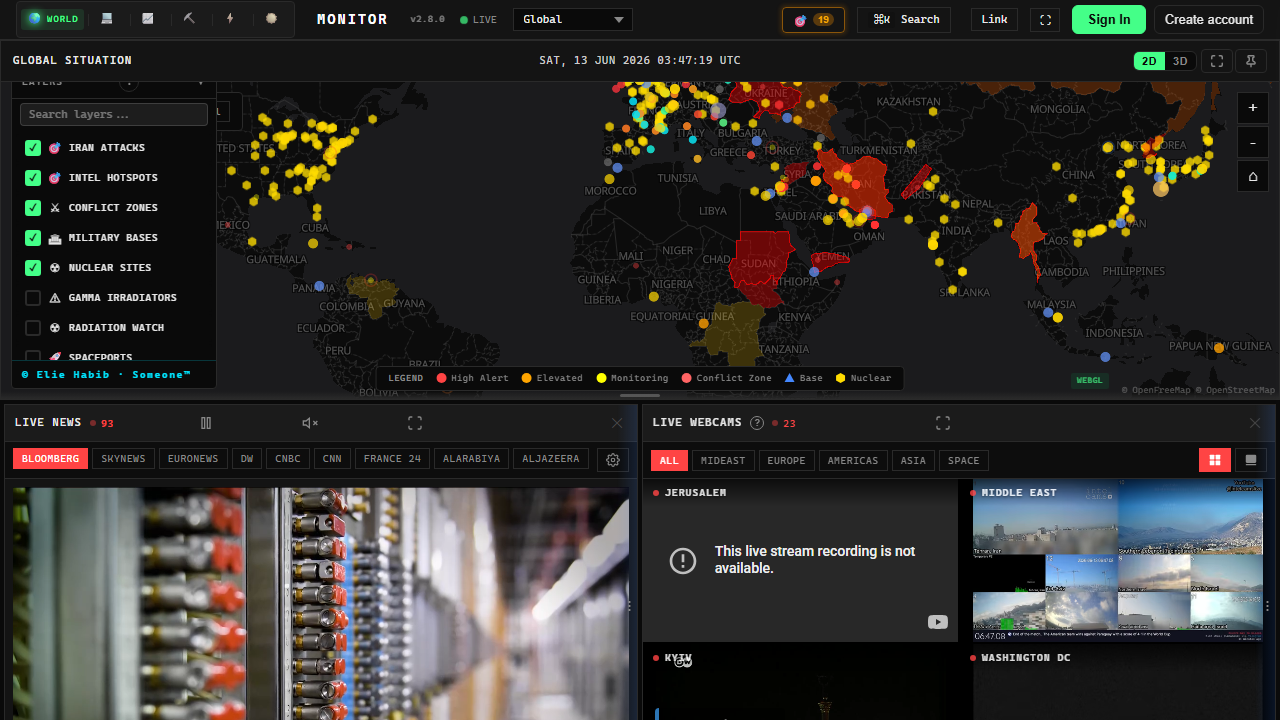
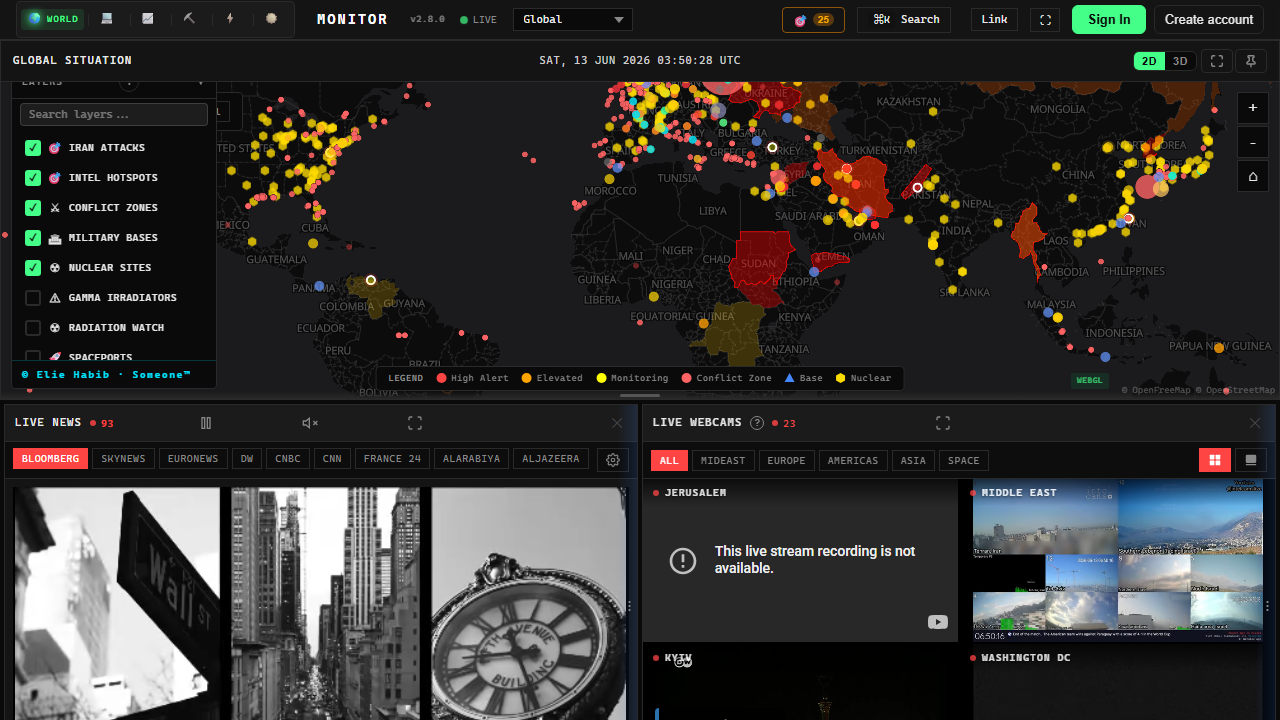
fix: increase all seed script TTLs to 48h for daily cron compatibility
Multiple seed scripts had TTLs designed for hourly cron (3h-15h) but
the workflows now run daily (24h). Data expired hours before the next
run, causing empty panels. Fixed 20+ scripts to use 48h TTL.

Affected: forecasts, market-implications, sanctions, social-velocity,
stablecoins, gulf-quotes, cyber-threats, earthquakes, natural-events,
regulatory-actions, usa-spending, wsb-tickers, climate, crypto, etc.

diff --git a/test-panels.spec.ts b/test-panels.spec.ts
@@ -1,51 +1,39 @@
 import { test, expect } from '@playwright/test';
 
-test('All major panels load without errors', async ({ page }) => {
-  const consoleErrors: string[] = [];
-  page.on('console', msg => {
-    if (msg.type() === 'error') consoleErrors.push(msg.text().slice(0, 150));
-  });
-
+test('Panel health check', async ({ page }) => {
   await page.goto('https://wm-worldmonitor-847.netlify.app', { waitUntil: 'domcontentloaded', timeout: 30000 });
-  await page.waitForTimeout(20000); // wait for panels to load
+  await page.waitForTimeout(20000);
 
-  // Get all panel states
+  // Get panel containers by data-panel-id
   const panelStates = await page.evaluate(() => {
-    const panels = document.querySelectorAll('[class*="panel"]');
     const results: Record<string, string> = {};
-    for (const p of panels) {
-      const id = (p as HTMLElement).dataset?.panelId || p.className.match(/panel-(\w[\w-]*)/)?.[1] || '';
-      if (!id) continue;
-      const text = (p.textContent || '').trim().slice(0, 100);
-      const hasError = p.querySelector('.panel-error, .error') !== null;
-      const hasLoading = p.querySelector('.panel-loading, .loading') !== null;
-      const isEmpty = text.includes('No data') || text.includes('unavailable') || text.includes('No items');
-      const state = hasError ? 'ERROR' : hasLoading ? 'LOADING' : isEmpty ? 'EMPTY' : 'OK';
-      results[id] = state;
-    }
+    // Panel containers have data-panel-id or are .panel elements with IDs
+    document.querySelectorAll('[data-panel]').forEach(el => {
+      const id = el.getAttribute('data-panel')!;
+      const text = (el.textContent || '').trim();
+      const hasError = el.querySelector('.panel-error-state, .panel-loading.panel-error-radar') !== null;
+      const hasLoading = el.querySelector('.panel-loading:not(.panel-loading-radar)') !== null;
+      const isEmpty = /no data|unavailable|No items|all sources disabled/i.test(text) && text.length < 200;
+      const isLocked = el.querySelector('.panel-locked-state') !== null;
+      results[id] = isLocked ? 'LOCKED' : hasError ? 'ERROR' : hasLoading ? 'LOADING' : isEmpty ? 'EMPTY' : 'OK';
+    });
     return results;
   });
 
-  console.log('Panel states:');
-  for (const [id, state] of Object.entries(panelStates).sort()) {
-    const icon = state === 'OK' ? '✅' : state === 'EMPTY' ? '⚠' : state === 'LOADING' ? '🔄' : '❌';
+  const sorted = Object.entries(panelStates).sort(([a], [b]) => a.localeCompare(b));
+  console.log(`\n${sorted.length} panels found:\n`);
+  for (const [id, state] of sorted) {
+    const icon = { OK: '✅', EMPTY: '⚠', LOADING: '🔄', ERROR: '❌', LOCKED: '🔒' }[state] || '?';
     console.log(`  ${icon} ${id}: ${state}`);
   }
 
-  const errors = Object.entries(panelStates).filter(([, s]) => s === 'ERROR');
-  const empty = Object.entries(panelStates).filter(([, s]) => s === 'EMPTY');
-  const loading = Object.entries(panelStates).filter(([, s]) => s === 'LOADING');
+  const summary = { OK: 0, EMPTY: 0, LOADING: 0, ERROR: 0, LOCKED: 0 };
+  for (const [, s] of sorted) (summary as Record<string, number>)[s]++;
 
-  console.log(`\nTotal: ${Object.keys(panelStates).length} panels`);
-  console.log(`  OK: ${Object.keys(panelStates).length - errors.length - empty.length - loading.length}`);
-  console.log(`  EMPTY: ${empty.length} — ${empty.map(([id]) => id).join(', ')}`);
-  console.log(`  LOADING: ${loading.length} — ${loading.map(([id]) => id).join(', ')}`);
-  console.log(`  ERROR: ${errors.length} — ${errors.map(([id]) => id).join(', ')}`);
-  console.log(`\nConsole errors: ${consoleErrors.length}`);
-  consoleErrors.slice(0, 5).forEach(e => console.log(`  ${e}`));
+  console.log(`\n✅ OK: ${summary.OK}  ⚠ EMPTY: ${summary.EMPTY}  🔄 LOADING: ${summary.LOADING}  ❌ ERROR: ${summary.ERROR}  🔒 LOCKED: ${summary.LOCKED}`);
 
-  await page.screenshot({ path: 'test-panels-overview.png', fullPage: false });
+  await page.screenshot({ path: 'test-panels-overview.png' });
 
-  // No panels should be in ERROR state
-  expect(errors.length).toBe(0);
+  // Allow EMPTY (data source issues) but no ERROR states
+  expect(summary.ERROR).toBe(0);
 });
